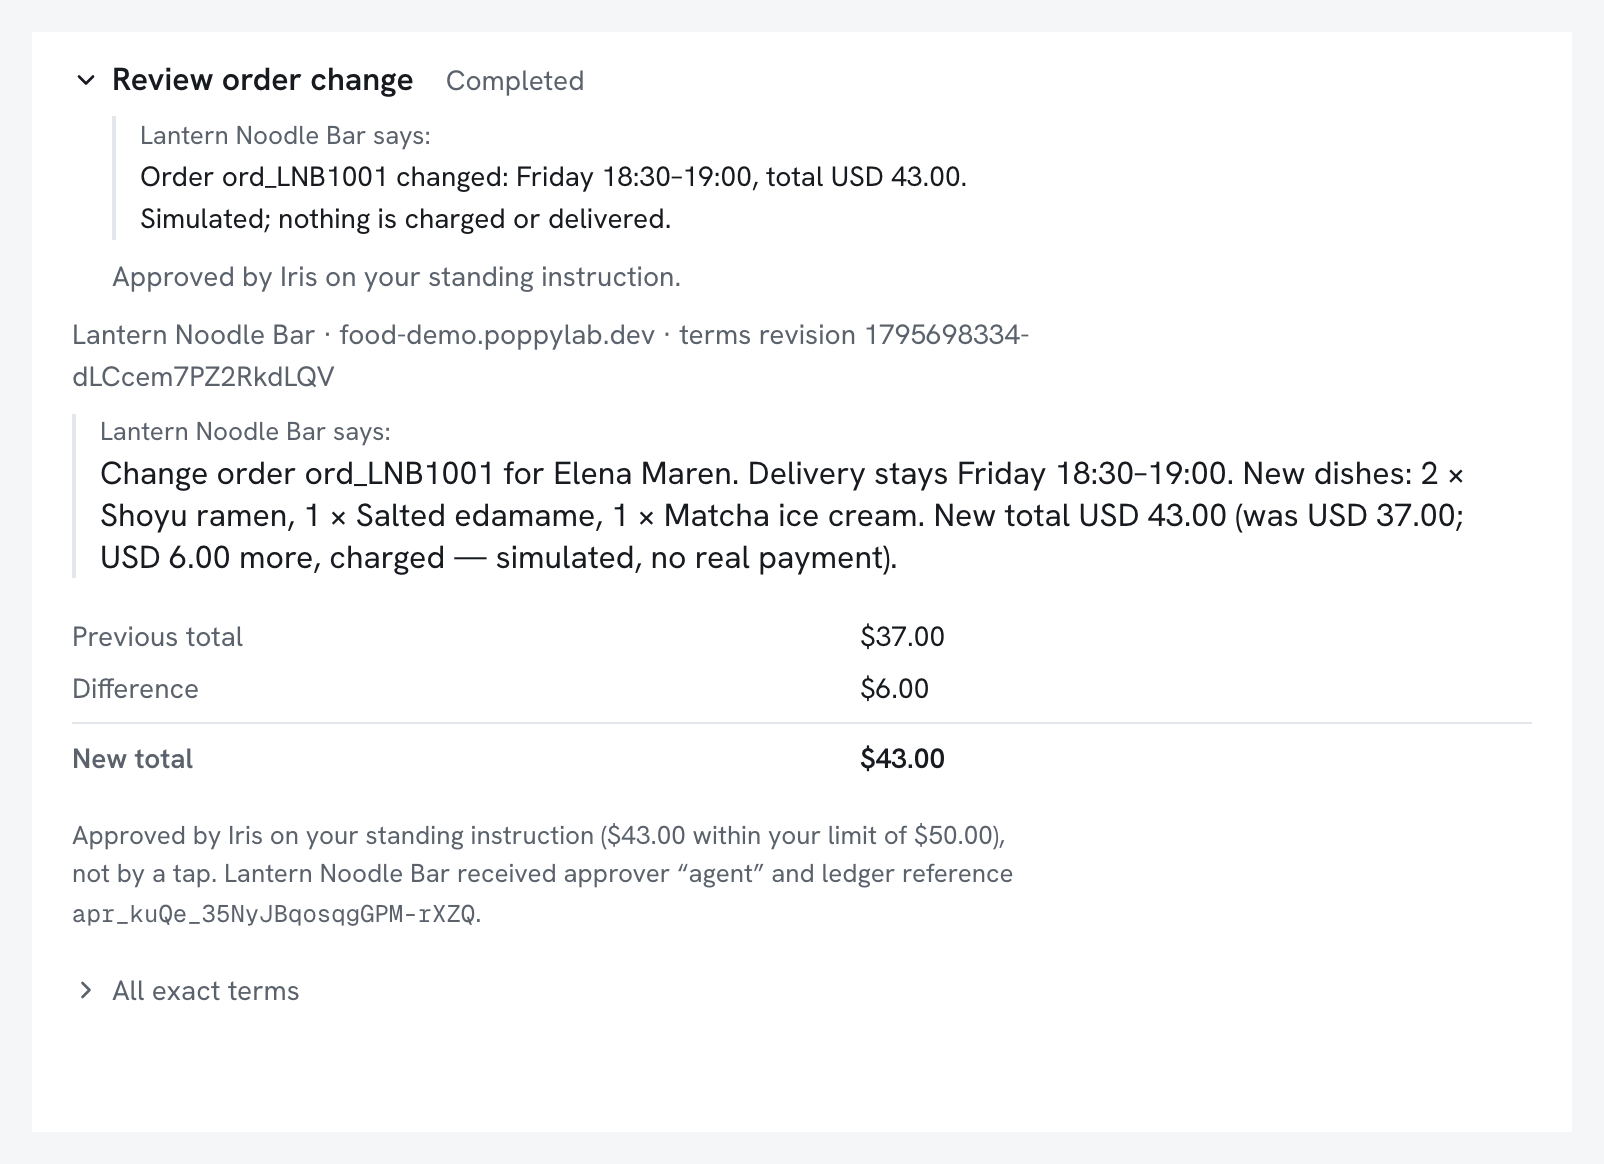
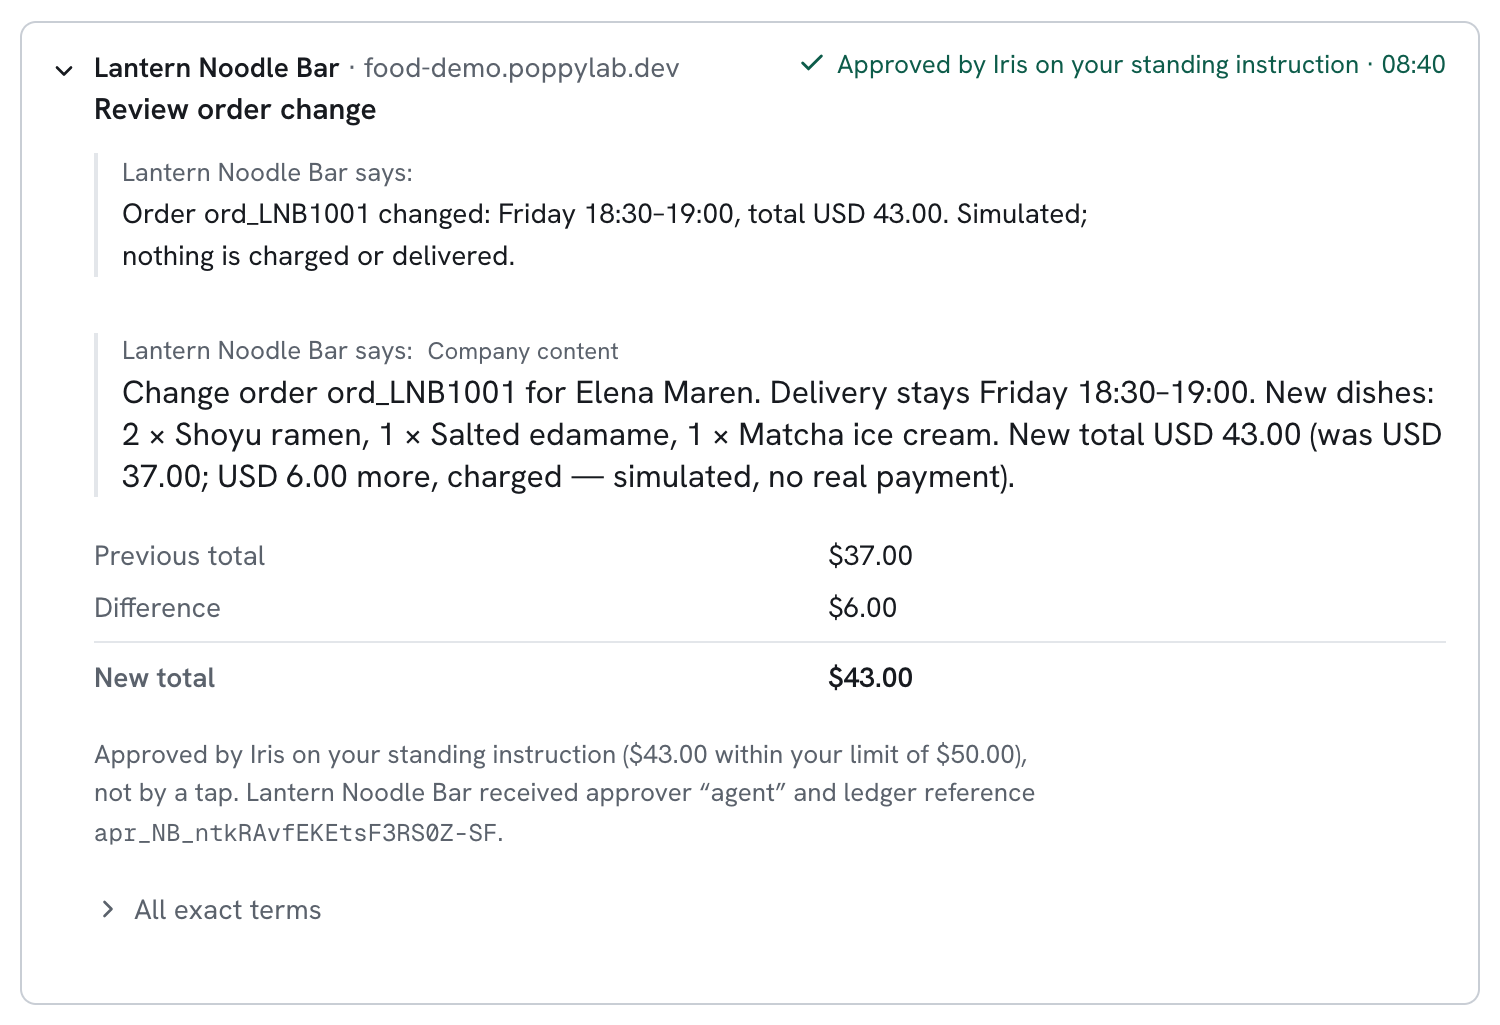
Show the standing instruction in the Companies bar and changes on cards
Letting the agent approve for you: the instruction is written in Lantern's entry in the Companies bar, a change left to Elena waits on its card with the reason and Iris's question, and a change the instruction covers gets no question. The rule's five approvals an hour is said in step 7 too. Retaken on 28 November: 01, 02, 04, 05. Images 03, 06, 07, 09 wait for the fix of the approval question asked after an agent approval; 08, 10, 11, 12 were not retaken.

diff --git a/docs/learn/how-it-works/letting-the-agent-approve-for-you.md b/docs/learn/how-it-works/letting-the-agent-approve-for-you.md
@@ -10,8 +10,8 @@ approved, and still brings her everything the instruction does not cover.
 This page follows the instruction screen by screen at Lantern, and then at
 [Harborline Bank](https://bank-demo.poppylab.dev), where Iris approves a small
 transfer on the same instruction, the bank declines the agent's approval, and
-Elena approves the transfer herself. Every screenshot is from the live lab,
-taken on 26 November 2026.
+Elena approves the transfer herself. Every screenshot is from the live lab at
+[poppylab.dev](https://poppylab.dev), taken on 26 and 28 November 2026.
 
 ## Who does what
 
@@ -25,12 +25,12 @@ taken on 26 November 2026.
 
 ### 1. Write the instruction
 
-![Under the conversation, a line called Standing instruction is open with a field: approve exchanges up to, in US dollars, and the number 50 typed in](../../../apps/playground/public/learn-media/how-it-works/letting-the-agent-approve-for-you/01-writing-the-instruction.webp "The instruction is written in Iris, for one company.")
+![Lantern Noodle Bar is open in the Companies bar: its line, the access Reading and change proposals, Sign out, and Standing instruction · none, opened to a field, approve exchanges up to, in US dollars, with 50 typed in and a Save link](../../../apps/playground/public/learn-media/how-it-works/letting-the-agent-approve-for-you/01-writing-the-instruction.webp "The instruction is written in Iris, for one company.")
 
 Elena has signed in at Lantern and allowed Iris to propose changes to her
-orders, as in [Changing an order](changing-an-order.md). Under the
-conversation Iris has a line called Standing instruction. She opens it, types
-50 and saves.
+orders, as in [Changing an order](changing-an-order.md). In the Companies
+bar above the conversation, Lantern's entry has a line called Standing
+instruction. She opens it, types 50 and saves.
 
 The instruction is Elena's, and it lives in her agent. Lantern is not asked
 about it. It applies to Lantern only, and another company needs an instruction
@@ -46,7 +46,7 @@ under Lantern's address.
 
 ### 2. What the instruction covers
 
-![The saved instruction: Iris approves exchanges here up to 50 dollars without asking, the limit is for the amount you pay or move, with the cases that still come to Elena and a Remove link](../../../apps/playground/public/learn-media/how-it-works/letting-the-agent-approve-for-you/02-instruction-saved.webp "Iris states the rule back in full, with a link to remove it.")
+![In the Companies bar the line now reads Standing instruction · up to 50 dollars: Iris approves exchanges here up to 50 dollars without asking, the limit is for the amount you pay or move, with the cases that still come to Elena and a Remove link](../../../apps/playground/public/learn-media/how-it-works/letting-the-agent-approve-for-you/02-instruction-saved.webp "Iris states the rule back in full, with a link to remove it.")
 
 Iris states the rule back. It will approve changes at Lantern up to 50 dollars
 without asking and record each one. The limit is for the amount Elena pays or
@@ -55,7 +55,9 @@ read or terms that disagree with their own summary still come to her.
 
 So does everything after five approvals in an hour, or once the approvals of
 an hour add up to three times the limit. Iris also says that a change left to
-Elena carries the reason, under the instruction and on its card.
+Elena carries the reason, under the instruction and on its card. A change
+the instruction covers gets no question from Iris: there is nothing for
+Elena to approve.
 
 For a change to an order, the amount Elena pays is the new total the company
 states. A 6-dollar dessert on a 37-dollar order makes a total of 43 dollars,
@@ -126,10 +128,10 @@ kinds of approval.
 
 ### 4. What Iris tells Elena
 
-![The card for the change reads Completed, with Lantern's confirmation, the previous total, the difference and the new total, and a note: approved by Iris on your standing instruction, not by a tap](../../../apps/playground/public/learn-media/how-it-works/letting-the-agent-approve-for-you/04-what-the-card-says.webp "The card says who approved and what Lantern was told.")
+![The card for the change, opened: Approved by Iris on your standing instruction, Lantern's confirmation and its description, the previous total, the difference and the new total, and a note: approved by Iris on your standing instruction, 43 dollars within your limit of 50 dollars, not by a tap, with the approver and the ledger reference Lantern received](../../../apps/playground/public/learn-media/how-it-works/letting-the-agent-approve-for-you/04-what-the-card-says.webp "The card says who approved and what Lantern was told.")
 
-The card for the change reads Completed, and under Lantern's confirmation it
-says "Approved by Iris on your standing instruction". Opened, it shows the
+The card for the change reads "Approved by Iris on your standing instruction",
+with Lantern's confirmation. Opened, it shows the
 terms and how the change was approved: by Iris on the standing instruction,
 and without a tap from Elena. It also says what Lantern received: the approver
 "agent" and the reference of the entry in Iris's list.
@@ -139,7 +141,7 @@ of the two approved.
 
 ### 5. What Lantern recorded
 
-![Lantern's record of the agent's activity: the change, applied on 26 November at 13:05 UTC, approved by your agent on a standing instruction you gave it](../../../apps/playground/public/learn-media/how-it-works/letting-the-agent-approve-for-you/05-lantern-records-who-approved.webp "Lantern's own website says that the agent approved this change.")
+![Lantern's record of the agent's activity: the change, applied on 28 November at 07:40 UTC, approved by your agent on a standing instruction you gave it](../../../apps/playground/public/learn-media/how-it-works/letting-the-agent-approve-for-you/05-lantern-records-who-approved.webp "Lantern's own website says that the agent approved this change.")
 
 Lantern's website shows the change under Your agent's activity, with the line
 "Approved by your agent, on a standing instruction you gave it". Lantern knew
@@ -151,25 +153,27 @@ Harborline does in step 9.
 
 ### 6. A change over the limit
 
-![Elena asks to add two pork gyoza. The new total is 59 dollars, and the change waits in the Needs you panel with the reason, over your limit of 50 dollars, and a button: Approve 59 dollars](../../../apps/playground/public/learn-media/how-it-works/letting-the-agent-approve-for-you/06-over-the-limit.webp "Above the limit, the change waits for Elena, and the panel says why.")
+![Elena asks to add two pork gyoza. The new total is 59 dollars, and the change waits on its card with the reason, over your limit of 50 dollars, and a button: Approve 59 dollars](../../../apps/playground/public/learn-media/how-it-works/letting-the-agent-approve-for-you/06-over-the-limit.webp "Above the limit, the change waits for Elena, and the card says why.")
 
 Elena types "Add 2 pork gyoza". Lantern's terms put the new total at 59
 dollars, which is over the limit, so Iris does not approve. The change waits
-in the Needs you panel, and the panel says why: the new total, 59 dollars, is
+on its card in the conversation, and the card says why: the new total, 59 dollars, is
 over her limit of 50. Elena declined this one, and the order stayed as it was.
 
 A refund also came to her. When she asked to remove the ice cream, 6 dollars
 would come back and the new total was 37 dollars, under the limit. Iris still
 waited for her approval, because the instruction does not cover money coming
-back. The panel gave that reason: the price difference, minus 6 dollars, is
+back. The card gave that reason: the price difference, minus 6 dollars, is
 below zero, and the instruction approves only amounts Elena pays or moves.
 
-When a change lowers the total, the panel has no amount in large type, and
-its button reads Approve this change.
+When a change lowers the total, the card has no amount in large type, and
+its button reads Approve this change. For each change left to her, Iris asks
+in its own words whether to approve it, and Elena can answer in the chat or
+use the card's buttons.
 
 ### 7. A limit on the whole hour
 
-![Three approvals are listed under the instruction, and a fourth line reads left to you. That change, a move to Sunday with the total unchanged at 48 dollars, waits in the Needs you panel with the reason: more than 3 times your limit, 150 dollars, within an hour, and a button: Approve this change](../../../apps/playground/public/learn-media/how-it-works/letting-the-agent-approve-for-you/07-hourly-total-reached.webp "A change within the limit waits, because the approvals of the last hour already add up to 134 dollars.")
+![Three approvals are listed under the instruction, and a fourth line reads left to you. That change, a move to Sunday with the total unchanged at 48 dollars, waits on its card with the reason: more than 3 times your limit, 150 dollars, within an hour, and a button: Approve this change](../../../apps/playground/public/learn-media/how-it-works/letting-the-agent-approve-for-you/07-hourly-total-reached.webp "A change within the limit waits, because the approvals of the last hour already add up to 134 dollars.")
 
 Within the hour Iris approved three changes on the instruction, with totals
 of 43, 43 and 48 dollars. Elena then asks to move the delivery to Sunday
@@ -179,8 +183,9 @@ total does not rise.
 
 The approvals of one hour may add up to three times the limit, which is 150
 dollars here, and this one would bring them to 182. The limit on one change
-cannot be used many times in a row to approve a large amount. The panel gives
-that reason above its buttons.
+cannot be used many times in a row to approve a large amount. The card gives
+that reason above its buttons. A sixth approval within the hour would wait
+for her too, whatever its amount.
 
 ### 8. The list of what Iris approved
 
@@ -197,7 +202,7 @@ list.
 
 ### 9. The same instruction at Harborline
 
-![At Harborline, with a standing instruction up to 50 dollars, a transfer of 25 dollars is back in the Needs you panel with a note that Harborline Bank declined the approval Iris sent, the bank's reason and a button: Approve 25 dollars](../../../apps/playground/public/learn-media/how-it-works/letting-the-agent-approve-for-you/09-harborline-declines-the-agent.webp "Iris approved on the instruction. Harborline declined the agent's approval and did nothing.")
+![At Harborline, with a standing instruction up to 50 dollars, a transfer of 25 dollars is back on its card, waiting for Elena, with a note that Harborline Bank declined the approval Iris sent, the bank's reason and a button: Approve 25 dollars](../../../apps/playground/public/learn-media/how-it-works/letting-the-agent-approve-for-you/09-harborline-declines-the-agent.webp "Iris approved on the instruction. Harborline declined the agent's approval and did nothing.")
 
 Elena writes the same instruction for Harborline Bank and asks Iris to
 transfer 25 dollars from checking to savings. Harborline answers with terms,
@@ -206,8 +211,8 @@ the instruction covers it, and Iris sends an approval of its own.
 
 Harborline declines it. The bank moves money only when the customer approves
 herself, and it says so in its answer. It does nothing, and the transfer comes
-back to Elena: the panel shows the same terms, the bank's reason and an
-Approve button.
+back to Elena: the card shows the same terms, the bank's reason and an
+Approve button, and Iris asks whether to approve it.
 
 Harborline's terms also hold the balances of both accounts, which are far
 above 50 dollars. Iris does not compare a balance with the limit. It compares
@@ -239,8 +244,8 @@ is final for that approval, and the agent does not send it again.
 
 ![The transfer of 25 dollars now reads Completed and Approved by you. Under the instruction its line reads: declined by the company, left to you](../../../apps/playground/public/learn-media/how-it-works/letting-the-agent-approve-for-you/10-elena-approves-herself.webp "The same terms, approved by Elena this time, and Harborline made the transfer.")
 
-Elena presses Approve $25.00. Iris sends the same request once more, this time
-with her approval, and Harborline makes the transfer. The entry reads
+Elena presses Approve $25.00, or answers "yes" to Iris's question. Iris sends
+the same request once more, this time with her approval, and Harborline makes the transfer. The entry reads
 Completed and "Approved by you".
 
 Under the instruction, the line for this transfer says that the company
@@ -257,8 +262,8 @@ standing instruction you gave it". The other is the transfer, applied once and
 approved by Elena in her agent.
 
 Whatever the instruction does not cover, or a company does not take from an
-agent, arrives in the same panel as before, where Elena can approve or decline
-it.
+agent, arrives on a card in the conversation as before, where Elena can
+approve or decline it.
 
 ## What Lantern and Harborline control
 
